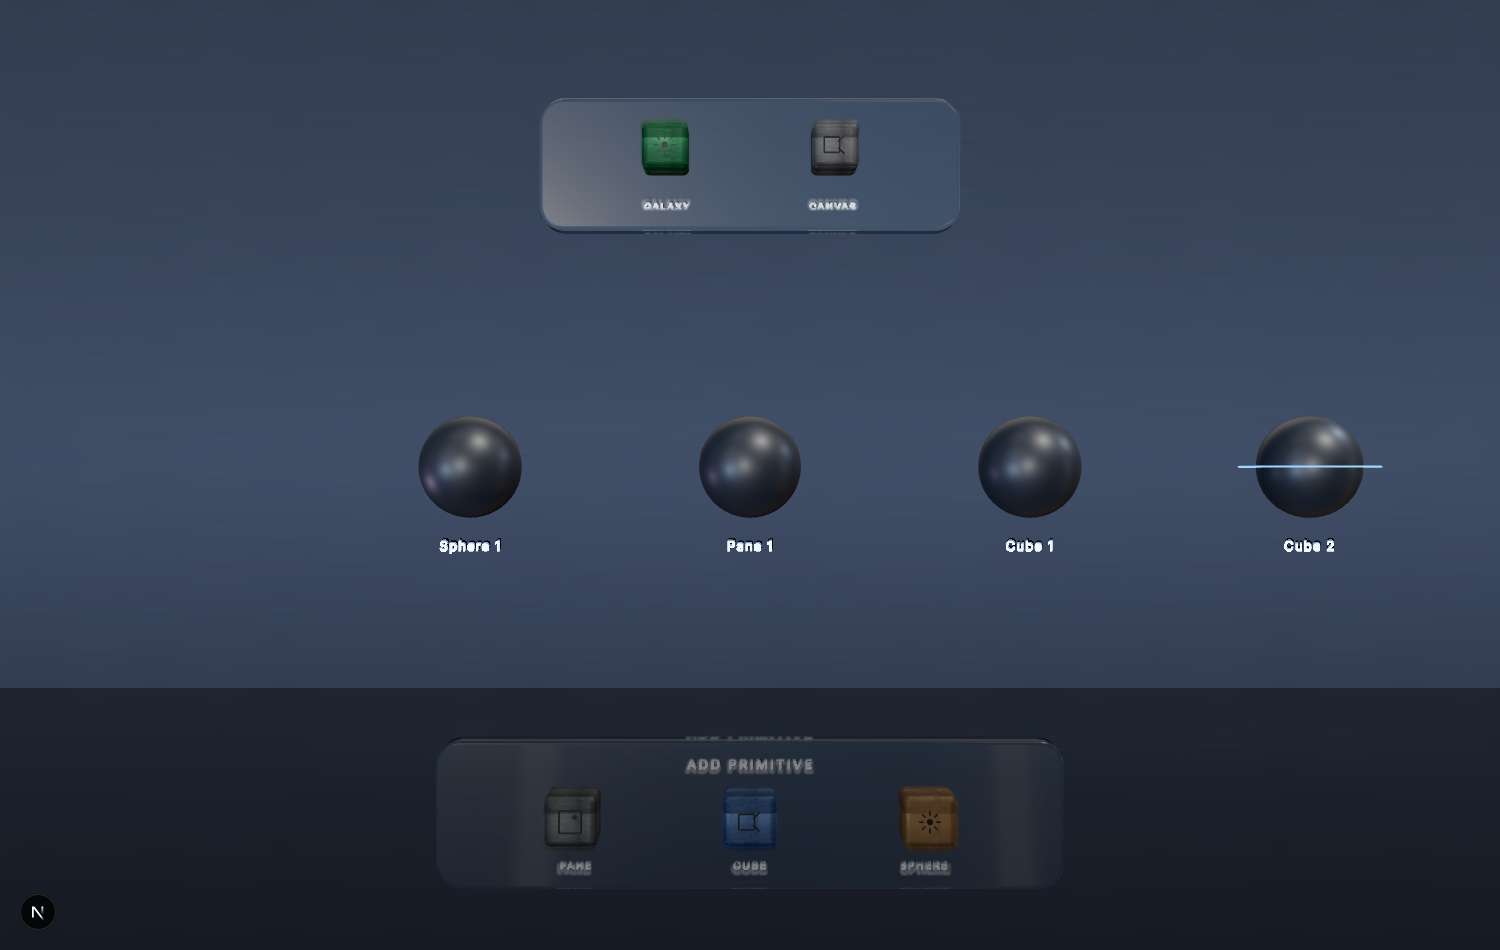
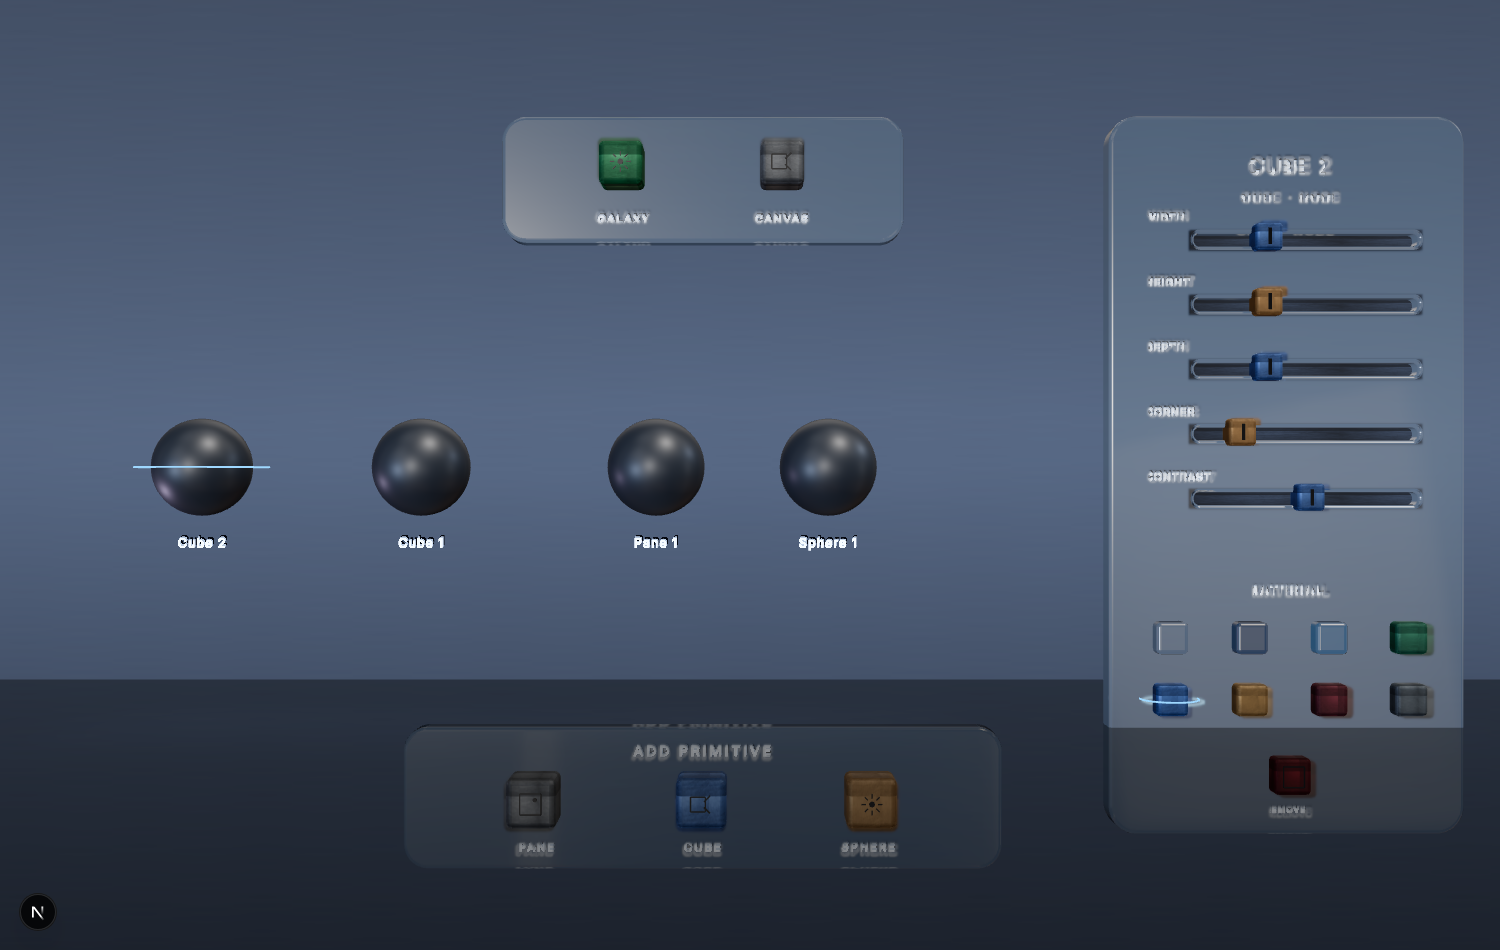
AUTO-CKPT: PRIM-P1 w-verify — headless behavioral + advocate + aesthetic match + report
Full HEADLESS behavioral pass (real pointer, offscreen): instantiate each kind from
the palette → node created+realized; reshape each via the Inspector → geometry
rebuilds live (pane 11748->32928 verts; cube bbox W1.4->0.8 D1.4->3.4; sphere
1225->220 verts); change materials (glass<->worn tones); add cutout; galaxy/canvas
two-state. 5 rendered = 5 nodes, 0 orphans, 0 console errors.

FRESH-CONTEXT REVIEWS (both blocking, no build context):
- user-advocate: PLEASED, gate PASS, 0 MUST-FIX (STYLE 4 / FUNCTION 5 /
  INTUITIVENESS 4 / SATISFACTION 5), cited frames throughout.
- spec-conformance: CONFORMS, 0 MUST-FIX (parametric-not-baked, Node Law gate fails
  on orphan, parametric cutouts no-CSG, zero-DOM, custom glyphs no-emoji, real PBR,
  types.ts untouched / isolated).

Polish from advocate feedback: deepened engraved-label deboss contrast + larger +
nearer the glass front face (crisp GALAXY/CANVAS/ADD PRIMITIVE/PANE/CUBE/SPHERE);
brighter studio backdrop + env 0.74 so the glass reads as premium luminous
transmission matching /toolbar-chassis.

GATES: no-dom-ui PASS (15 files), node-authorship --lab 7/7, tsc 9=baseline/0-new,
0 console errors. Report: notes/PRIM-P1-REPORT.md. Evidence: notes/verification/prim-p1/.

diff --git a/kid-kode-landing/src/components/editor/primitive/PrimitiveChrome.tsx b/kid-kode-landing/src/components/editor/primitive/PrimitiveChrome.tsx
@@ -194,7 +194,7 @@ function InstantiatePalette({ maps }: { maps: Record<string, WornMaps> }) {
   return (
     <group>
       <GlassBar width={spacing * KINDS.length + 1.2} height={1.7} position={[0, y, 0]} />
-      <EngravedText position={[0, y + 0.62, 0.34 / 2 - 0.06]} fontSize={0.16} letterSpacing={0.16}>
+      <EngravedText position={[0, y + 0.62, 0.34 / 2 - 0.02]} fontSize={0.18} letterSpacing={0.18}>
         ADD PRIMITIVE
       </EngravedText>
       {KINDS.map((k, i) => {
@@ -211,7 +211,7 @@ function InstantiatePalette({ maps }: { maps: Record<string, WornMaps> }) {
                 instantiate(k.kind);
               }}
             />
-            <EngravedText position={[x, y - 0.6, 0.34 / 2 - 0.06]} fontSize={0.13} letterSpacing={0.1}>
+            <EngravedText position={[x, y - 0.6, 0.34 / 2 - 0.02]} fontSize={0.15} letterSpacing={0.12}>
               {k.label}
             </EngravedText>
           </group>
@@ -247,7 +247,7 @@ function ModeToggle({ maps }: { maps: Record<string, WornMaps> }) {
               position={[x, y + 0.12, FRONT]}
               onClick={() => setView(o.mode)}
             />
-            <EngravedText position={[x, y - 0.5, 0.34 / 2 - 0.06]} fontSize={0.12} letterSpacing={0.1}>
+            <EngravedText position={[x, y - 0.5, 0.34 / 2 - 0.02]} fontSize={0.14} letterSpacing={0.12}>
               {o.label}
             </EngravedText>
           </group>

diff --git a/kid-kode-landing/src/components/editor/primitive/PrimitiveLabScene.tsx b/kid-kode-landing/src/components/editor/primitive/PrimitiveLabScene.tsx
@@ -34,13 +34,13 @@ function Backdrop() {
     c.height = 512;
     const g = c.getContext('2d')!;
     const grad = g.createLinearGradient(0, 0, 0, 512);
-    grad.addColorStop(0, '#323b4a');
-    grad.addColorStop(0.5, '#1a2030');
-    grad.addColorStop(1, '#06080e');
+    grad.addColorStop(0, '#3c4658');
+    grad.addColorStop(0.5, '#222a3c');
+    grad.addColorStop(1, '#070a11');
     g.fillStyle = grad;
     g.fillRect(0, 0, 64, 512);
-    const bloom = g.createRadialGradient(32, 250, 8, 32, 250, 340);
-    bloom.addColorStop(0, 'rgba(150,180,225,0.30)');
+    const bloom = g.createRadialGradient(32, 245, 8, 32, 245, 360);
+    bloom.addColorStop(0, 'rgba(165,195,238,0.40)');
     bloom.addColorStop(1, 'rgba(0,0,0,0)');
     g.fillStyle = bloom;
     g.fillRect(0, 0, 64, 512);
@@ -63,7 +63,7 @@ function EnvTune() {
   useEffect(() => {
     const prevI = scene.environmentIntensity;
     const prevR = scene.environmentRotation?.clone?.();
-    scene.environmentIntensity = 0.66;
+    scene.environmentIntensity = 0.74;
     if (scene.environmentRotation) scene.environmentRotation.set(0.3, -Math.PI * 0.32, 0);
     return () => {
       scene.environmentIntensity = prevI;

diff --git a/kid-kode-landing/src/components/editor/primitive/EngravedText.tsx b/kid-kode-landing/src/components/editor/primitive/EngravedText.tsx
@@ -45,15 +45,15 @@ export function EngravedText({
   return (
     <group position={position}>
       {/* shadowed upper wall — dark, offset up + deepest */}
-      <Text {...common} position={[0.008, 0.018, -0.012]} color="#04060b" renderOrder={1}>
+      <Text {...common} position={[0.009, 0.02, -0.012]} color="#03050a" renderOrder={1}>
         {children}
       </Text>
-      {/* frosted-glass etch fill — cool steel tint (NOT white) */}
-      <Text {...common} position={[0, 0, 0]} color="#88a0b8" renderOrder={2}>
+      {/* frosted-glass etch fill — brighter cool steel tint (legible through glass) */}
+      <Text {...common} position={[0, 0, 0]} color="#b8c8dc" renderOrder={2}>
         {children}
       </Text>
       {/* lit lower wall — bright frosted highlight rim, offset down + proud */}
-      <Text {...common} position={[-0.006, -0.016, 0.013]} color="#eef5fd" renderOrder={3}>
+      <Text {...common} position={[-0.007, -0.018, 0.014]} color="#f4f9ff" renderOrder={3}>
         {children}
       </Text>
     </group>

diff --git a/kid-kode-landing/src/components/editor/primitive/use-lab-graph-store.ts b/kid-kode-landing/src/components/editor/primitive/use-lab-graph-store.ts
@@ -29,7 +29,9 @@ export type LabViewMode = 'galaxy' | 'canvas';
 
 // Deterministic placement slots so instantiated primitives don't overlap, kept
 // clear of the top mode-toggle tab and the bottom instantiate palette.
-const SLOTS_X = [-0.6, 3.0, -3.6, -6.4, 5.6, -9.0, 8.2];
+// Left/center stage band only — the right side (x ≳ 5) is reserved for the docked
+// Inspector panel, so instantiated primitives never spawn behind it.
+const SLOTS_X = [-0.6, -3.6, 1.6, -6.4, -9.0, 3.2, -11.2];
 const ROW_Y = [0.3, -1.7];
 function slotFor(index: number): { x: number; y: number } {
   const col = index % SLOTS_X.length;

diff --git a/kid-kode-landing/notes/PRIM-P1-REPORT.md b/kid-kode-landing/notes/PRIM-P1-REPORT.md
@@ -1,0 +1,95 @@
+# PRISM PRIMITIVE SYSTEM — PHASE P-1 — BUILD REPORT
+
+**Status: RUN COMPLETE.** Branch `prism-editor-build`. Route **`/primitive-lab`** (isolated R3F WebGL, the toolbar-chassis idiom — never the unified three/webgpu graph scene). Production untouched.
+
+One line: parametric, schema-driven **Pane / Cube / Sphere** primitives, each a real **NODE**, instantiated from an in-canvas palette and reshaped live by an in-canvas **Inspector** — in the founder-approved glass + worn-alloy chassis language, zero DOM.
+
+---
+
+## 1. What shipped (spec §1 + §5 + §0 + §7)
+
+### Parametric geometry from schema numbers (§1.1 / §1.5 / F-3)
+Geometry is GENERATED FROM SCHEMA NUMBERS and rebuilt LIVE on edit — never a baked GLB for these clean forms.
+- **Pane** — `THREE.Shape` rounded-rect + `ExtrudeGeometry` with a milled front/back bevel and one `Path` HOLE per cutout (parametric, **not** CSG; F-8). Reuses the committed chassis `GlassPane` technique, generalized to w/h/thickness/cornerRadius/bevel/cutouts[].
+- **Cube** — `RoundedBoxGeometry` (three-stdlib), parametric w/h/d + corner + segments.
+- **Sphere** — `SphereGeometry`, parametric radius + tessellation.
+- Files: `src/components/editor/primitive/primitive-geometry.ts`, `PrimitiveMesh.tsx` (live `useMemo` keyed on `JSON.stringify(params)`, geometry disposed on swap).
+
+### Materials = the approved chassis set (§2 / F-4)
+- **glass-*** (clear / smoke / tinted) → the `GlassPane` `MeshPhysicalMaterial` transmission look (real refraction off the shared studio IBL).
+- **worn-*** (emerald / sapphire / bronze / oxblood / gunmetal) → `applyWornMaterial` + the 5 generated jewel-tone PBR sets (albedo+normal+rough+metal+ao). Worn brushed alloy, never glossy plastic.
+- Shared studio IBL + AgX tone mapping + the chassis lighting rig → primitives MATCH `/toolbar-chassis` + `/keyframe-editor` by construction.
+- File: `primitive-materials.ts`.
+
+### NODE LAW — every primitive IS a node (§0, INV-0.1..0.5)
+- The `PrimitiveSchema` is the single source of truth; `schemaToNode` emits a genuine `PrismNode` carrying `meshPrimitive` + `materialSpec` (the production node-authorship gate's `hasRealArtifact` keys on `meshPrimitive`). **Zero production-type changes** — `src/lib/prism-graph/types.ts` was NOT modified.
+- `instantiate(kind)` creates the node AND it is rendered from the same store in the same action — one cannot exist without the other.
+- **Two-state scene** (INV-R2): GALAXY shows every node UNBUILT (dormant seed sphere + engraved caption); CANVAS shows every node REALIZED. The mode toggle switches the whole set.
+- Files: `use-lab-graph-store.ts`, `primitive-schema.ts`, `DormantNode.tsx`.
+
+### Instantiation pipeline (§5) + in-canvas chrome (§7, dogfooded §7.4)
+- **ADD PRIMITIVE** palette: a glass bar (a Pane primitive) with one worn-cube button per kind (hover-spin, engraved labels). Click → node created + realized.
+- **GALAXY / CANVAS** mode toggle (active = emerald).
+- Both built FROM the primitives themselves (the panel is a Pane, the buttons are Cubes).
+- File: `PrimitiveChrome.tsx`.
+
+### In-canvas Inspector — live reshape (§1.3 / §7, zero DOM)
+- Select a primitive → the Inspector opens (the panel is a glass Pane with the fader channels milled as cutouts; controls are worn-cube fader knobs riding the channels — the keyframe vocabulary).
+- Editing writes the node schema → geometry/material **rebuild instantly**:
+  - fader channels per kind: Pane W/H/THICKNESS/CORNER/BEVEL · Cube W/H/D/CORNER · Sphere RADIUS/SEGMENTS · + material CONTRAST.
+  - 8 material swatches (glass clear/smoke/tinted + 5 worn tones).
+  - **ADD CUTOUT** (pane → mills a parametric rounded-rect hole) + **REMOVE**.
+- `ClickCatcher` behind each glass panel so clicking the panel never falls through the transmissive glass to the backdrop and deselects.
+- File: `Inspector.tsx`, `ClickCatcher.tsx`, `EngravedText.tsx`.
+
+### Gate coverage (INV-0.5)
+- `scripts/node-authorship-gate.mjs` extended with a **`--lab`** mode driving `/primitive-lab`: a primitive rendered without a backing node = FAIL. The probe `__PRISM_PRIM_AUTHORSHIP__` traverses the LIVE scene (`userData.prismPrimitive` + `prismNodeId`) and cross-checks the lab graph; a self-test proves a synthetic orphan WOULD be caught.
+
+---
+
+## 2. Verification — HEADLESS, behavioral, near-human (VERIFICATION-STANDARD in full)
+
+All Playwright `chromium.launch({ headless: true })` — never a headed window on the founder's screen. Real pointer events (`page.mouse` click/drag projected from the live camera matrices).
+
+### Behavioral (evidence: `notes/verification/prim-p1/full-metrics.json` + frames)
+| Check | Result |
+|---|---|
+| Opens with pane/cube/sphere realized | 3 nodes, all rendered as backing nodes |
+| Pane reshape (HEIGHT↑, CORNER↑) + smoke glass + 2 cutouts | vertices **11,748 → 32,928** (live rebuild), material→glass-smoke, cutouts 0→2 |
+| Cube instantiate (palette click) + reshape | nodes **3→4**; bbox W 1.4→0.8, D 1.4→3.4 (live rebuild); material→worn-oxblood |
+| Sphere instantiate + reshape (RADIUS, SEGMENTS) | nodes **4→5**; vertices 1225→220 (live rebuild); material→worn-gunmetal |
+| GALAXY (unbuilt) | 5 dormant seeds, **0 orphans** |
+| CANVAS (realized) | 5 rendered = 5 nodes, all realized, **0 orphans** |
+| Console errors | **0** across the whole session |
+
+### Gates
+- `no-dom-ui-gate.mjs src/components/editor/primitive src/app/primitive-lab` → **PASS** (15 files).
+- `node-authorship-gate.mjs --lab` → **7/7 ok, 0 hard-fail** (probe live, classifier self-test live, instantiate creates node, canvas 0 orphans + all realized, galaxy 0 orphans, 0 page errors). Report: `notes/verification/fix1/primitive-authorship-gate.json`.
+- `tsc --noEmit` → **9 = baseline / 0 new** (all 9 are pre-existing GraphScene + test errors).
+- `git diff` confirms `src/lib/prism-graph/types.ts` unchanged (additive-zero).
+
+### Fresh-context reviews (both blocking, no build context)
+- **user-advocate**: **PLEASED**, gate PASS, **0 MUST-FIX**. Axes — STYLE 4, FUNCTION 5, INTUITIVENESS 4, SATISFACTION 5. Cited frames for every claim. Nice-to-haves (all addressed or non-blocking): engraved chrome label legibility → **fixed** (deeper deboss contrast + larger + nearer front face); flatter background → **improved** (brighter studio backdrop + env 0.74); galaxy seeds plain (per-kind core tint already present).
+- **spec-conformance reviewer**: **CONFORMS**, 0 MUST-FIX. All 7 checks PASS — parametric-not-baked, Node Law (gate fails on orphan), parametric cutouts (no CSG dep), zero DOM, custom 3D glyphs (no stock icons / no emoji), real PBR/transmission materials, production safety (types.ts untouched, isolated route).
+
+### Evidence frames (`notes/verification/prim-p1/`)
+`full-01-overview` · `full-02-pane-glass-cutouts` · `full-03-cube-reshaped` · `full-04-sphere-reshaped` · `full-05-galaxy` · `full-06-final-canvas` · `winspector-open/-fader-drag/-material/-cutout` · `wgeo-coldload/-rebuild` · `wnode-canvas/-galaxy/-after-click-instantiate` · `ref-toolbar-chassis` · `ref-keyframe-editor` (approved-look references) · `jpg/` (resized).
+
+---
+
+## 3. Files
+
+New under `src/components/editor/primitive/`: `primitive-schema.ts`, `primitive-geometry.ts`, `primitive-materials.ts`, `PrimitiveMesh.tsx`, `DormantNode.tsx`, `PrimitiveChrome.tsx`, `Inspector.tsx`, `ClickCatcher.tsx`, `EngravedText.tsx`, `PrimitiveLabScene.tsx`, `use-lab-graph-store.ts`.
+New route `src/app/primitive-lab/`: `page.tsx`, `layout.tsx`, `primitive-lab.css`.
+Modified (additive only): `scripts/node-authorship-gate.mjs` (`--lab` mode).
+
+## 4. Verify hooks (editor-chrome window; FP-05 does not apply outside runtime/node)
+`__PRISM_PRIM_SCENE__` · `__PRISM_PRIM_STORE__()` · `__PRISM_PRIM_AUTHORSHIP__()` + `__PRISM_PRIM_AUTHORSHIP_SELFTEST__()` · `__PRISM_PRIM_CAM__.set(px,py,pz,tx,ty,tz)` · `__PRISM_PRIM_INSTANTIATE__(kind)` · `__PRISM_PRIM_PALETTE_POS__` · `__PRISM_PRIM_INSPECTOR_MAP__()`.
+
+## 5. Deliberate decisions / deviations
+- **Isolated lab graph store** (not the production `live-graph.json`): honors "do not touch production" while being faithful to the Node Law — every primitive is a real `PrismNode` and the gate enforces it. Phase work that wires primitives into the production graph is a later phase.
+- **Pane → production `plane` `meshPrimitive` marker**: the node carries a coarse `meshPrimitive` so it is a real graph artifact; the full parametric detail (cutouts/bevel/cornerRadius) lives in the lab schema the renderer reads. Chosen to avoid extending production types (additive-zero).
+- **`three-bvh-csg` not used** (not installed): cutouts are parametric `Shape.holes` per spec §1.5 / F-8.
+
+## 6. Out of scope (later phases, per spec §11)
+Material library + prompt-to-texture (P-2), fluids (P-3), composites + bound nav (P-4), 3D composition snap/group (P-5), the full in-canvas library palette + dogfood-rebuilt production chrome (P-6).
